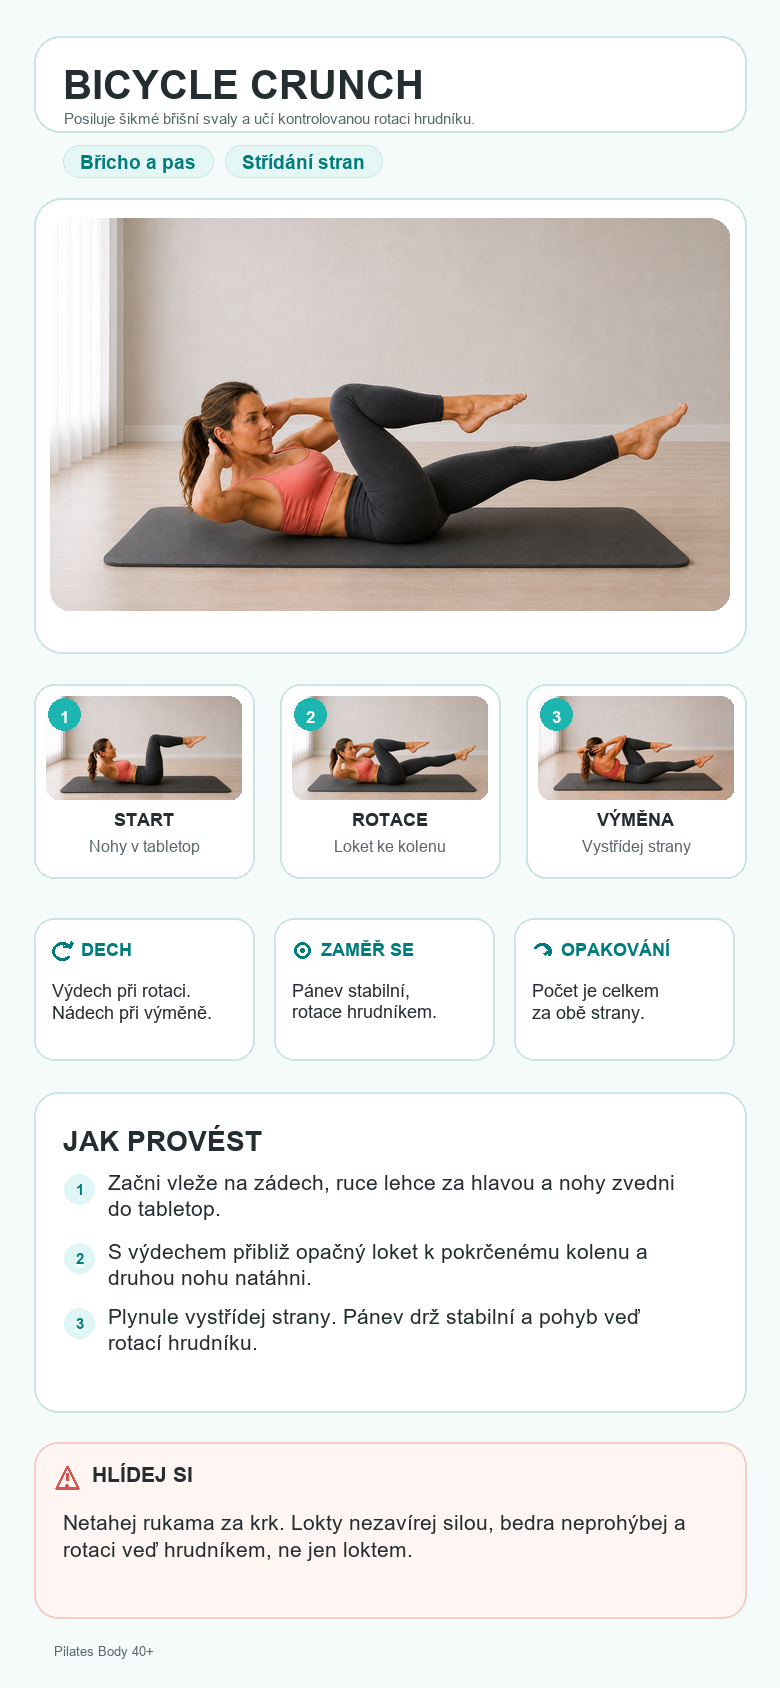
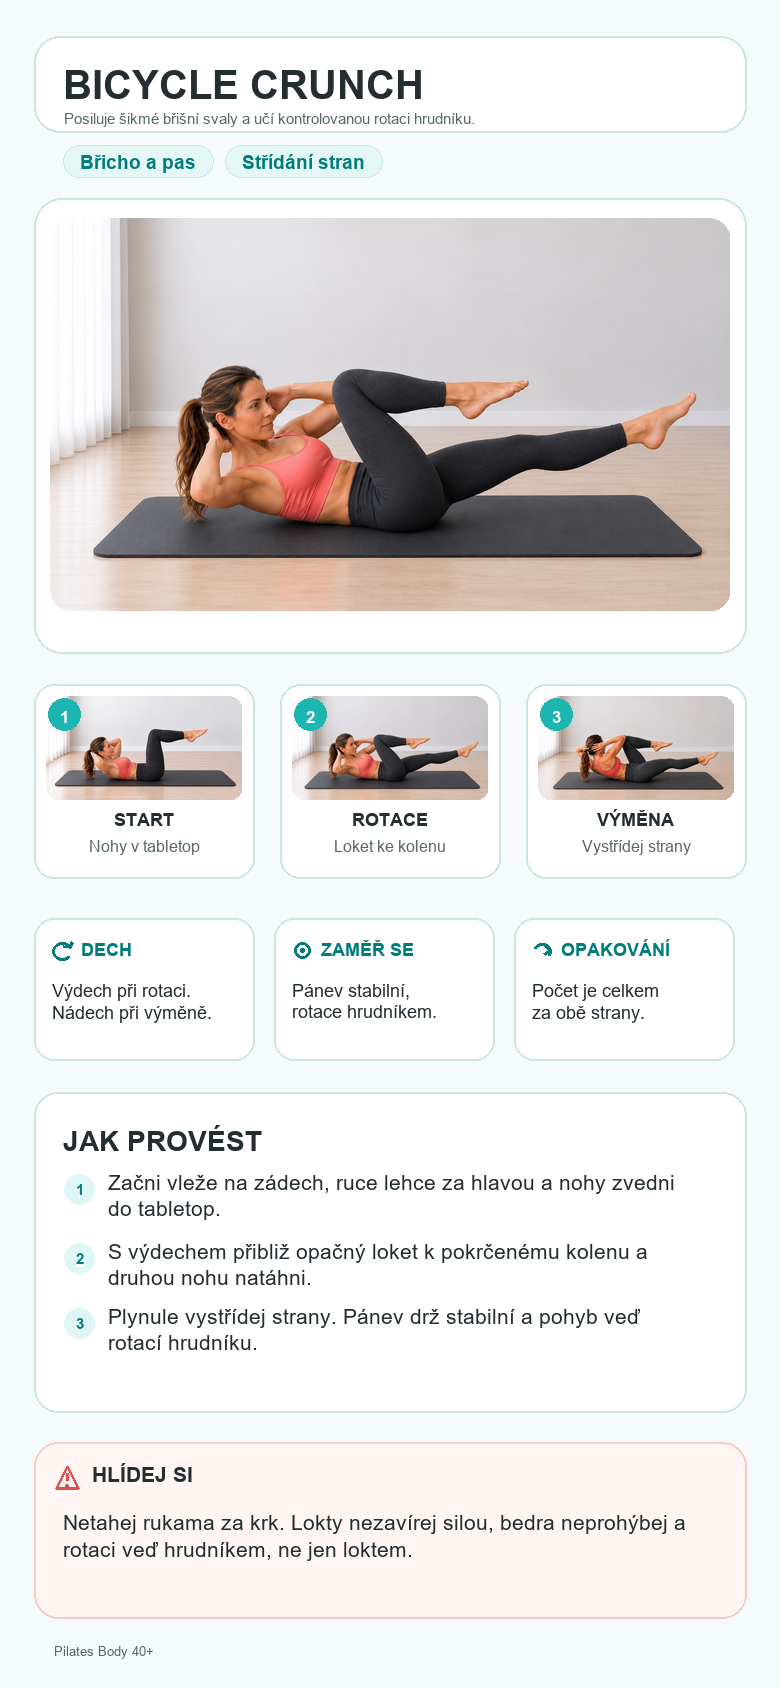
Update Bicycle Crunch final assets

diff --git a/app.js b/app.js
@@ -1,6 +1,6 @@
 (function(){
 const app=document.getElementById('app'),data=window.PB40_DATA;
-const APP_VERSION='v59.159-dev';
+const APP_VERSION='v59.160-dev';
 const versionEl=document.getElementById('app-version');
 const brandBadge=document.querySelector('.brandBadge');
 const primaryNav=document.querySelector('body > nav');
@@ -995,11 +995,11 @@ const referenceExerciseAssets={
     }
   },
   bicycle:{
-    start:'Pilates%20Assets/02_Exercise_Cards/Bicycle%20Crunch/bicycle_crunch_start_v02_approved.png',
-    hero:'Pilates%20Assets/02_Exercise_Cards/Bicycle%20Crunch/bicycle_crunch_hero_v02_approved.png',
-    end:'Pilates%20Assets/02_Exercise_Cards/Bicycle%20Crunch/bicycle_crunch_end_v02_approved.png',
-    guideCard:'Pilates%20Assets/02_Exercise_Cards/Bicycle%20Crunch/bicycle_crunch_guide_card_v01.png',
-    stepByStep:'Pilates%20Assets/02_Exercise_Cards/Bicycle%20Crunch/bicycle_crunch_step_by_step_v01.png',
+    start:'Pilates%20Assets/02_Exercise_Cards/Bicycle%20Crunch/bicycle_crunch_start.png',
+    hero:'Pilates%20Assets/02_Exercise_Cards/Bicycle%20Crunch/bicycle_crunch_hero.png',
+    end:'Pilates%20Assets/02_Exercise_Cards/Bicycle%20Crunch/bicycle_crunch_end.png',
+    guideCard:'Pilates%20Assets/02_Exercise_Cards/Bicycle%20Crunch/bicycle_crunch_guide_card_v01.png?v=59161bicyclefinal',
+    stepByStep:'Pilates%20Assets/02_Exercise_Cards/Bicycle%20Crunch/bicycle_crunch_step_by_step_v01.png?v=59161bicyclefinal',
     subtitle:'Břicho • pas • střídání stran',
     miniSteps:[
       {n:1,title:'START',caption:'Nohy v tabletop',photo:'start'},

diff --git a/index.html b/index.html
@@ -35,6 +35,6 @@
 })();
 </script>
 <script src="data.js?v=59157unifiedcards"></script>
-<script src="app.js?v=59160glutefinal"></script>
+<script src="app.js?v=59161bicyclefinal"></script>
 </body>
 </html>

diff --git a/Pilates Assets/02_Exercise_Cards/Bicycle Crunch/build_bicycle_crunch_cards.py b/Pilates Assets/02_Exercise_Cards/Bicycle Crunch/build_bicycle_crunch_cards.py
@@ -3,9 +3,9 @@ from pathlib import Path
 from PIL import Image, ImageDraw, ImageFont
 
 BASE = Path(__file__).resolve().parent
-START = BASE / "bicycle_crunch_start_v02_approved.png"
-HERO = BASE / "bicycle_crunch_hero_v02_approved.png"
-END = BASE / "bicycle_crunch_end_v02_approved.png"
+START = BASE / "bicycle_crunch_start.png"
+HERO = BASE / "bicycle_crunch_hero.png"
+END = BASE / "bicycle_crunch_end.png"
 GUIDE = BASE / "bicycle_crunch_guide_card_v01.png"
 STEP = BASE / "bicycle_crunch_step_by_step_v01.png"
 

diff --git a/00_CHATGPT_START/MASTER/01_DOCUMENTS/EXERCISE_PROGRESS.md b/00_CHATGPT_START/MASTER/01_DOCUMENTS/EXERCISE_PROGRESS.md
@@ -52,7 +52,7 @@ Programové zařazení: Side Kick je použit ve dnech 18 a 25; Child's Pose je p
 | Cvik | Ref | HERO | START | END | Guide | Step | Export | QA | App | Stav | Poznámka |
 |---|---|---|---|---|---|---|---|---|---|---|---|
 | Bent Over Row | ❌ | ✅ | ✅ | ✅ | ✅ | ✅ | ✅ | ✅ | ✅ | HOTOVO | START/HERO v02 schválené; END = START v02 bez samostatného PNG; Guide Card a Step by Step v02 schválené; App nasazena jako `row`; aktivní cesty používají pouze Bent Over Row v02 soubory |
-| Bicycle Crunch | ❌ | ✅ | ✅ | ✅ | ✅ | ✅ | ✅ | ✅ | ✅ | HOTOVO | START/HERO/END v01 schválené; sekvence START → HERO → END; Guide Card a Step by Step v01 schválené; App nasazena přes `bicycle` |
+| Bicycle Crunch | ❌ | ✅ | ✅ | ✅ | ✅ | ✅ | ✅ | ✅ | ✅ | HOTOVO | Finální SOURCE bez verzovacího čísla: `bicycle_crunch_start.png` → `bicycle_crunch_hero.png` → `bicycle_crunch_end.png`; Guide Card a Step by Step v01 aktualizovány beze změny textů/layoutu; app mapování přes `bicycle` |
 | Bird Dog | ❌ | ✅ | ✅ | ✅ | ✅ | ✅ | ✅ | ✅ | ✅ | HOTOVO | EXERCISE_REFERENCE není uložená v MASTER balíčku |
 | Bridge Abduction | ❌ | ✅ | ✅ | ✅ | ✅ | ✅ | ✅ | ✅ | ✅ | HOTOVO | START je schválený reuse source z Glute Bridge March MID v02; HERO je schválený; END = START bez samostatného PNG; Guide Card a Step by Step jsou schválené; App nasazena jako kanonické ID `abduction`; schválená varianta je bez pomůcky |
 | Cat-Cow | ❌ | ✅ | ✅ | ✅ | ✅ | ✅ | ✅ | ✅ | ✅ | HOTOVO | START, HERO/CAT fáze a END/COW fáze schválené; Guide Card a Step by Step schválené; App nasazena jako samostatný cvik `catcow`; EXERCISE_REFERENCE není uložená v MASTER balíčku |

diff --git a/Pilates Assets/02_Exercise_Cards/Bicycle Crunch/STATUS.md b/Pilates Assets/02_Exercise_Cards/Bicycle Crunch/STATUS.md
@@ -3,9 +3,9 @@
 Status: HOTOVO
 
 ## Source Images
-- [x] START — bicycle_crunch_start_v01.png — SCHVÁLENO
-- [x] HERO — bicycle_crunch_hero_v01.png — SCHVÁLENO
-- [x] END — bicycle_crunch_end_v01.png — SCHVÁLENO
+- [x] START — `bicycle_crunch_start.png` — FINÁLNÍ / SCHVÁLENO
+- [x] HERO — `bicycle_crunch_hero.png` — FINÁLNÍ / SCHVÁLENO
+- [x] END — `bicycle_crunch_end.png` — FINÁLNÍ / SCHVÁLENO
 
 ## Workflow
 START → HERO → END
@@ -39,4 +39,4 @@ START → HERO → END
 - HERO: levý loket modelky směřuje k pravému kolenu, levá noha je natažená a trup je natočený směrem ke kameře.
 - END: pravý loket modelky směřuje k levému kolenu, pravá noha je natažená a trup je natočený od kamery.
 - Guide Card a Step by Step v01 jsou manuálně schválené.
-- Aplikace používá schválené Bicycle Crunch v01 source a karty.
+- Aplikace používá finální Bicycle Crunch SOURCE bez verzovacího čísla a stávající Guide/Step karty v01.
